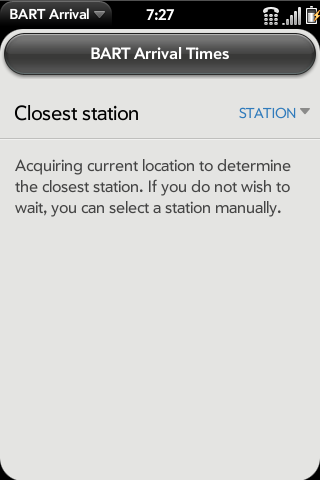
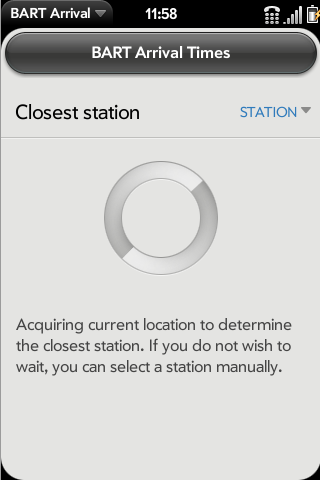
0.1.2: Forgot to update the screenshot, and I missed a location to make the spinner disappear.

diff --git a/src/app/assistants/main-assistant.js b/src/app/assistants/main-assistant.js
@@ -205,6 +205,7 @@ MainAssistant.prototype.failedLocation = function(result) {
         // error code 7 is when this application already has a message. It
         // shouldn't ever happen with this application, but if so, we'll ignore
         // this failure and let the previous message go through.
+        this.stopSpinner();
     }
     // if the current station is set to something other than CLOSEST,
     // then the user has chosen a station manually, and doesn't care if this
